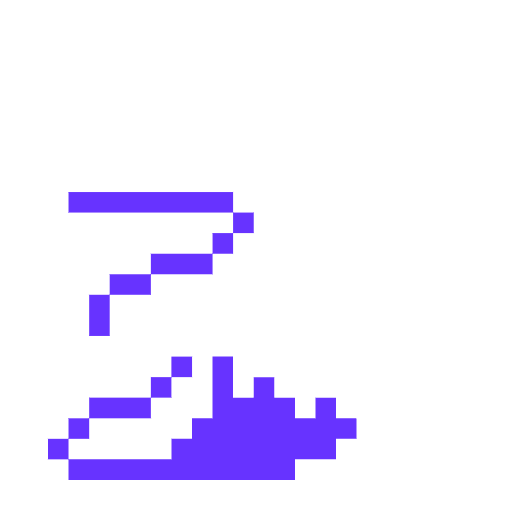
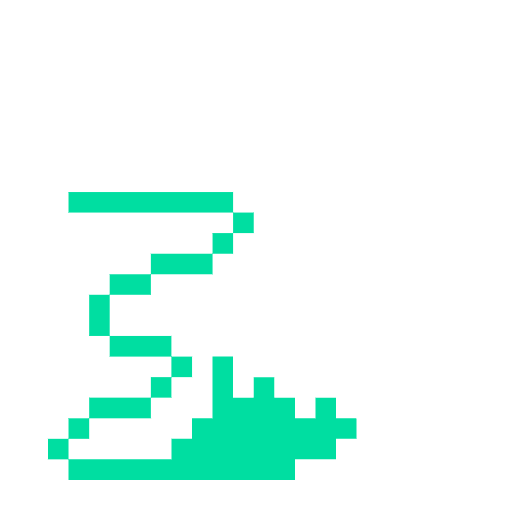
Refresh Craft monogram assets and align floating pixels with pill colours.
Replace the teal craft monogram pair and derive background particle colours from the hero pill palette.

Changed region(s): [[0.0909, 0.3636, 0.697, 0.9091]]

diff --git a/src/lib/index-floating-pixels.ts b/src/lib/index-floating-pixels.ts
@@ -1,9 +1,9 @@
-/** Mosaic.select floating pixel palette (blue, red, cream). */
-export const INDEX_FLOATING_PIXEL_COLORS = [
-  "#0443B5",
-  "#E0223E",
-  "#FBFAF9",
-] as const;
+import { HERO_PILLS } from "@/lib/hero-pills-data";
+
+/** Floating pixel palette — unique hero pill fill colours. */
+export const INDEX_FLOATING_PIXEL_COLORS: readonly string[] = [
+  ...new Set(HERO_PILLS.map((pill) => pill.color)),
+];
 
 /** Viewport-wide field — sparse like the Mosaic hero. */
 export const INDEX_FLOATING_PIXEL_COUNT = 32;

diff --git a/src/lib/craft-monogram.ts b/src/lib/craft-monogram.ts
@@ -1,2 +1,2 @@
-/** Paint accent on the index Craft brush monogram. */
-export const CRAFT_MONOGRAM_PRIMARY_COLOR = "#F8784F";
+/** Accent colour for the index Craft monogram pixel asset. */
+export const CRAFT_MONOGRAM_PRIMARY_COLOR = "#00C896";
